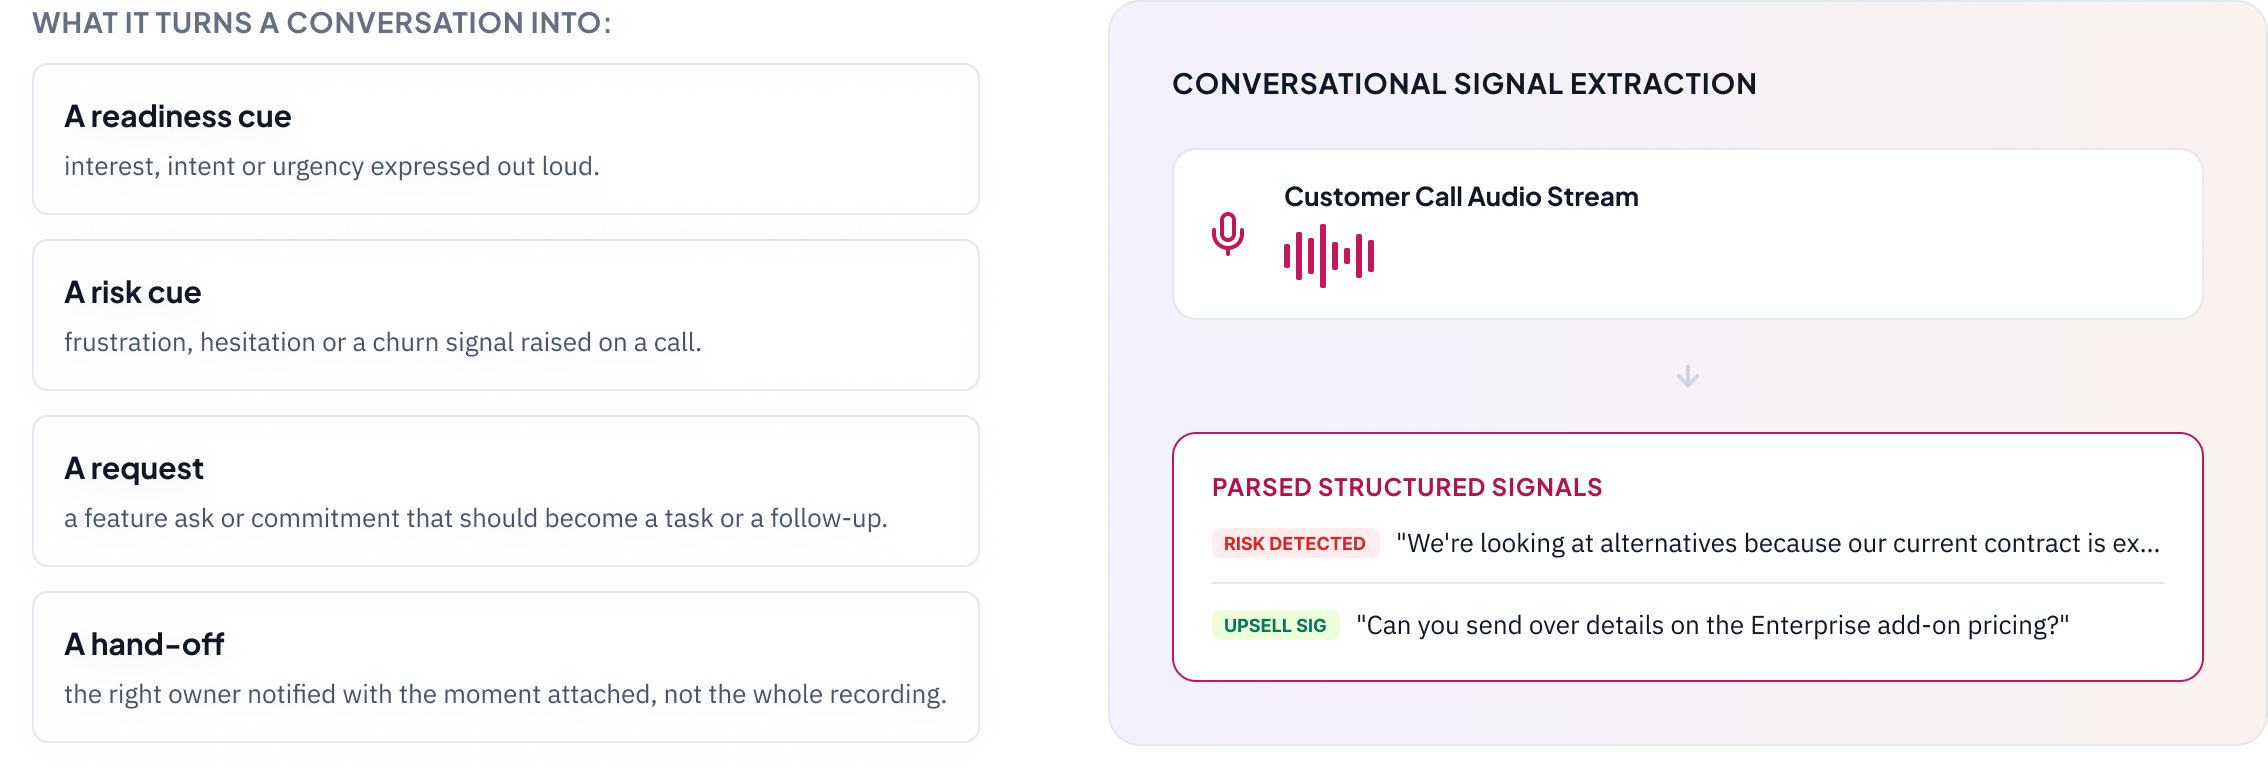
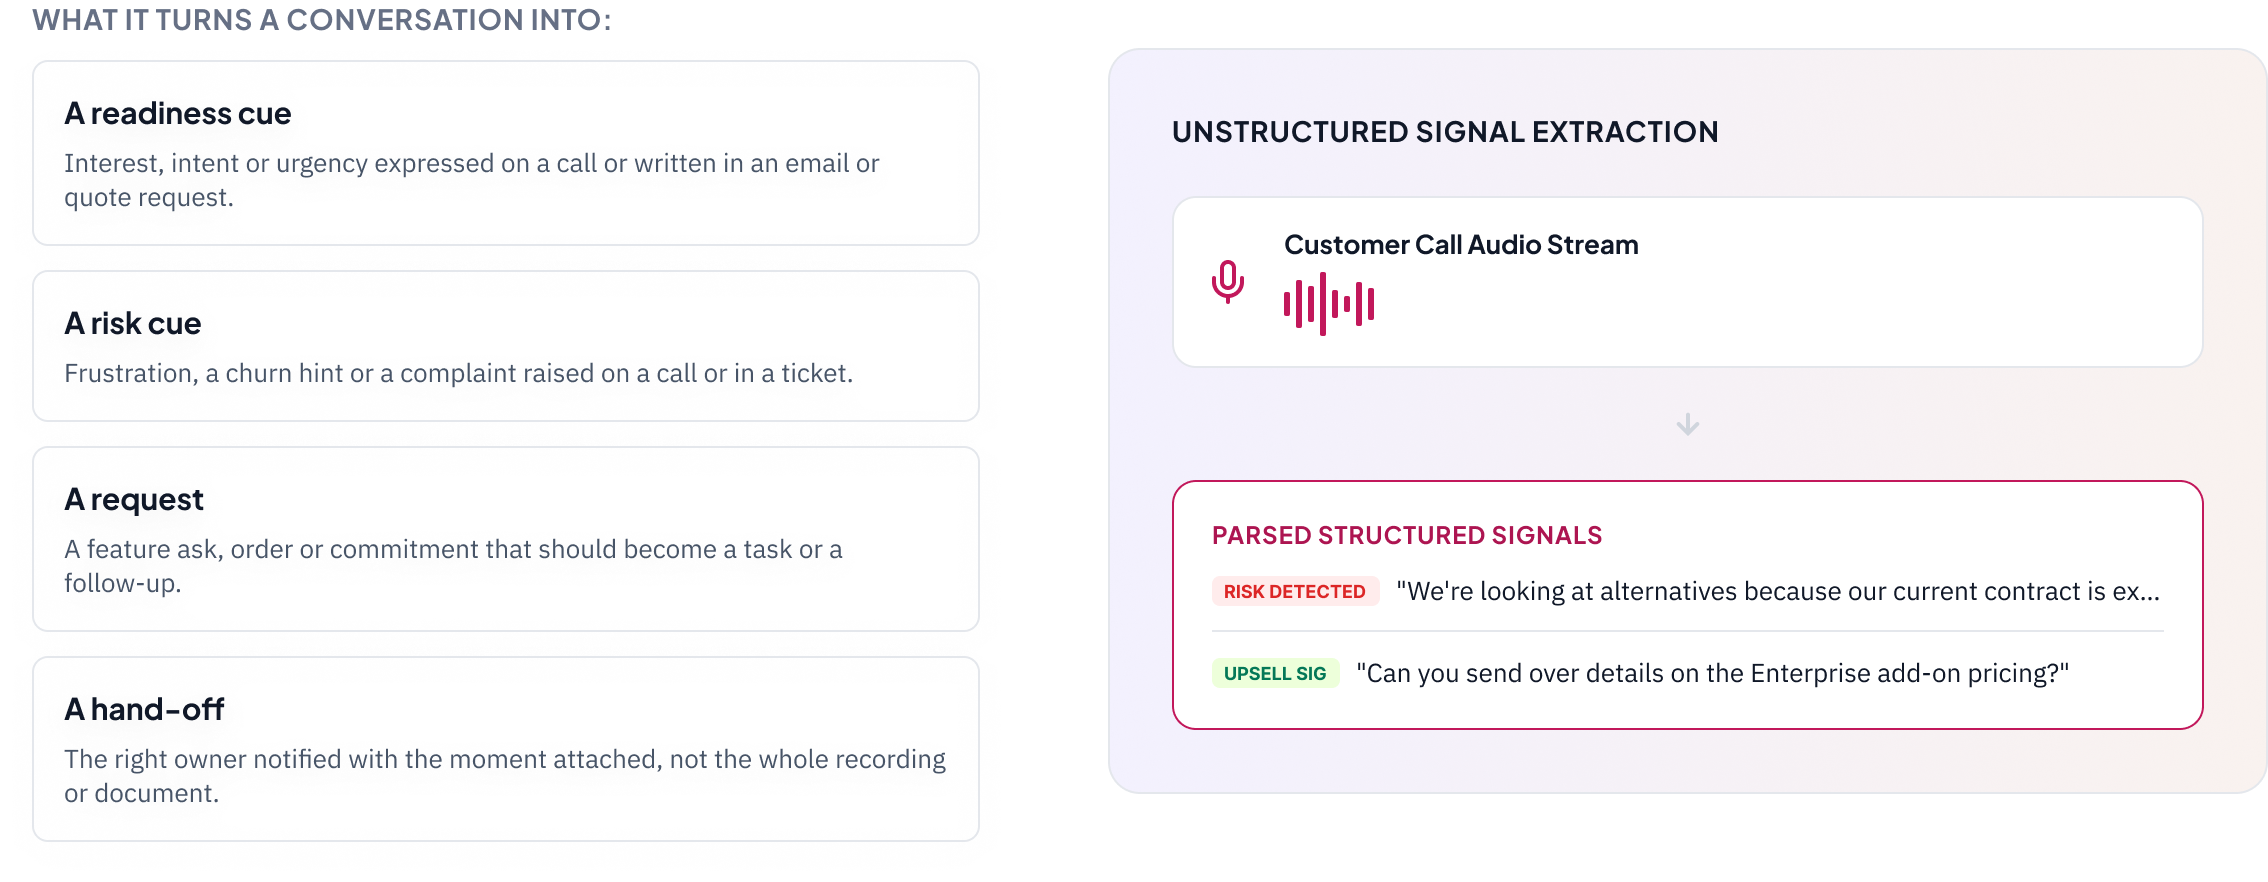
platform text changes with image intab5

diff --git a/components/platform/architecture/Panel.jsx b/components/platform/architecture/Panel.jsx
@@ -70,15 +70,39 @@ export const panelContent = {
 	},
 
 	"video-audio": {
-		headingPlain: "Your conversations are ",
+		headingPlain: "Your conversations and documents are ",
 		headingHighlight: "signals too",
 		subtextPink:
-			"The moments that matter don’t only live in your systems. They happen on calls, in meetings and in demos. grync.io turns those conversations into signals the engine can act on.",
+			"The moments that matter don’t only live in your systems. They surface in calls and meetings, and in the emails, PDFs and tickets moving through your business. grync.io reads them, understands what needs attention, and turns it into a signal the engine can act on.",
 		subtextGray:
-			"Listens to calls, demos, meetings · Pulls out what matters · Feeds the same engine · A spoken signal acts like a system one",
+			"Reads calls, emails, PDFs, tickets · Extracts what needs attention · Feeds the same engine · An unstructured signal acts like a system one",
 		diagramImage: "/images/platform/p5.png",
-		closingBold: "What gets said on the call now acts like every other ",
-		closingRed: "signal, caught, understood, and acted on.",
+		cues: {
+			rows: [
+				{
+					moment: "A readiness cue",
+					action:
+						"Interest, intent or urgency — expressed on a call or written in an email or quote request.",
+				},
+				{
+					moment: "A risk cue",
+					action:
+						"Frustration, a churn hint or a complaint raised on a call or in a ticket.",
+				},
+				{
+					moment: "A request",
+					action:
+						"A feature ask, order or commitment that should become a task or a follow-up.",
+				},
+				{
+					moment: "A hand-off",
+					action:
+						"The right owner notified with the moment attached — not the whole recording or document.",
+				},
+			],
+		},
+		closingBold: "Whatever the format - a call, an email, a PDF - what matters gets read, understood, and ",
+		closingRed: "acted on like every other signal.",
 	},
 
 	"ai-engine": {
@@ -204,7 +228,7 @@ export const panelContent = {
 				},
 				{
 					title: "Write back & close",
-					text: "The outcome is written back into your systems, and the task is closed. Your records stay current, with nothing left open.",
+					text: "The outcome is written back into your systems, and the task is closed, and the outcome is tracked and verified. Your records stay current, with nothing left open.",
 					accent: "#e4e6eb",
 					icon: "/images/platform/c5.png",
 				},
@@ -341,9 +365,22 @@ const Panel = ({ activeId }) => {
 				<>
 					<img
 						src={data.diagramImage}
-						alt="A conversation turns into a readiness cue, a risk cue, a request or a hand-off"
+						alt="A conversation or document turns into a readiness cue, a risk cue, a request or a hand-off"
 						className={styles.diagramImage}
 					/>
+
+					<div className={styles.tableCard}>
+						<div className={styles.tableHeaderRow}>
+							<span className="tablehead1">Cue</span>
+							<span>What it means</span>
+						</div>
+						{data.cues.rows.map((row, i) => (
+							<div key={i} className={styles.tableRow}>
+								<span className={styles.tableMoment}>{row.moment}</span>
+								<span className={styles.tableAction}>{row.action}</span>
+							</div>
+						))}
+					</div>
 
 					<div className={styles.diagramCallout}>
 						<p>
